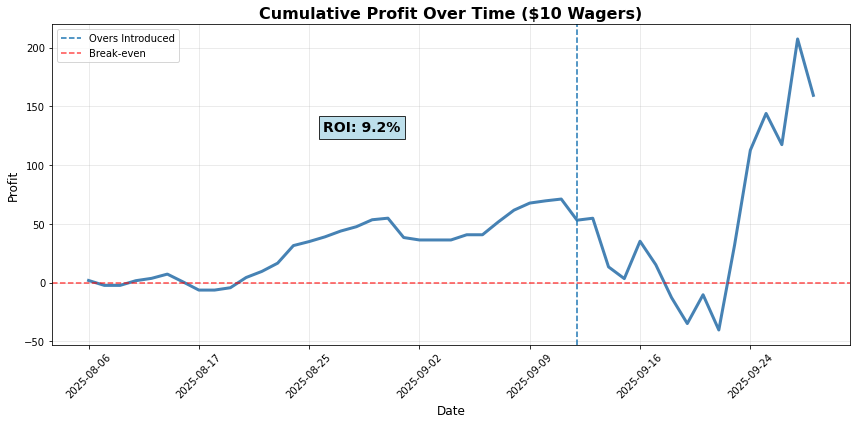
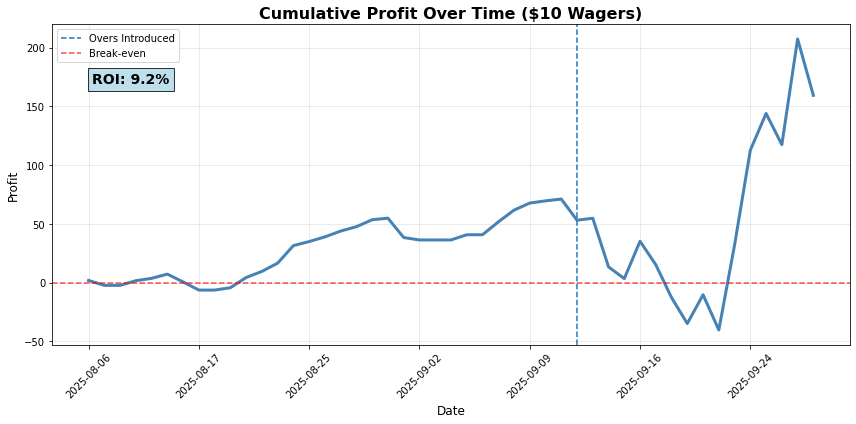
readme update

Changed region(s): [[0.3645, 0.2759, 0.486, 0.3373], [0.0911, 0.1533, 0.2126, 0.2146]]

diff --git a/irrelevant/plotting.py b/irrelevant/plotting.py
@@ -74,7 +74,7 @@ plt.axvline(x=first_over_date, linestyle='--',label='Overs Introduced')
 plt.axhline(y=0, color='red', linestyle='--', alpha=0.7, label='Break-even')
 plt.legend()
 # Add ROI text annotation
-plt.text(0.34, 0.7, 'ROI: 9.2%', transform=plt.gca().transAxes, 
+plt.text(0.05, 0.85, 'ROI: 9.2%', transform=plt.gca().transAxes, 
          fontsize=14, fontweight='bold', verticalalignment='top',
          bbox=dict(boxstyle='square', facecolor='lightblue', alpha=0.8))
 #%%
